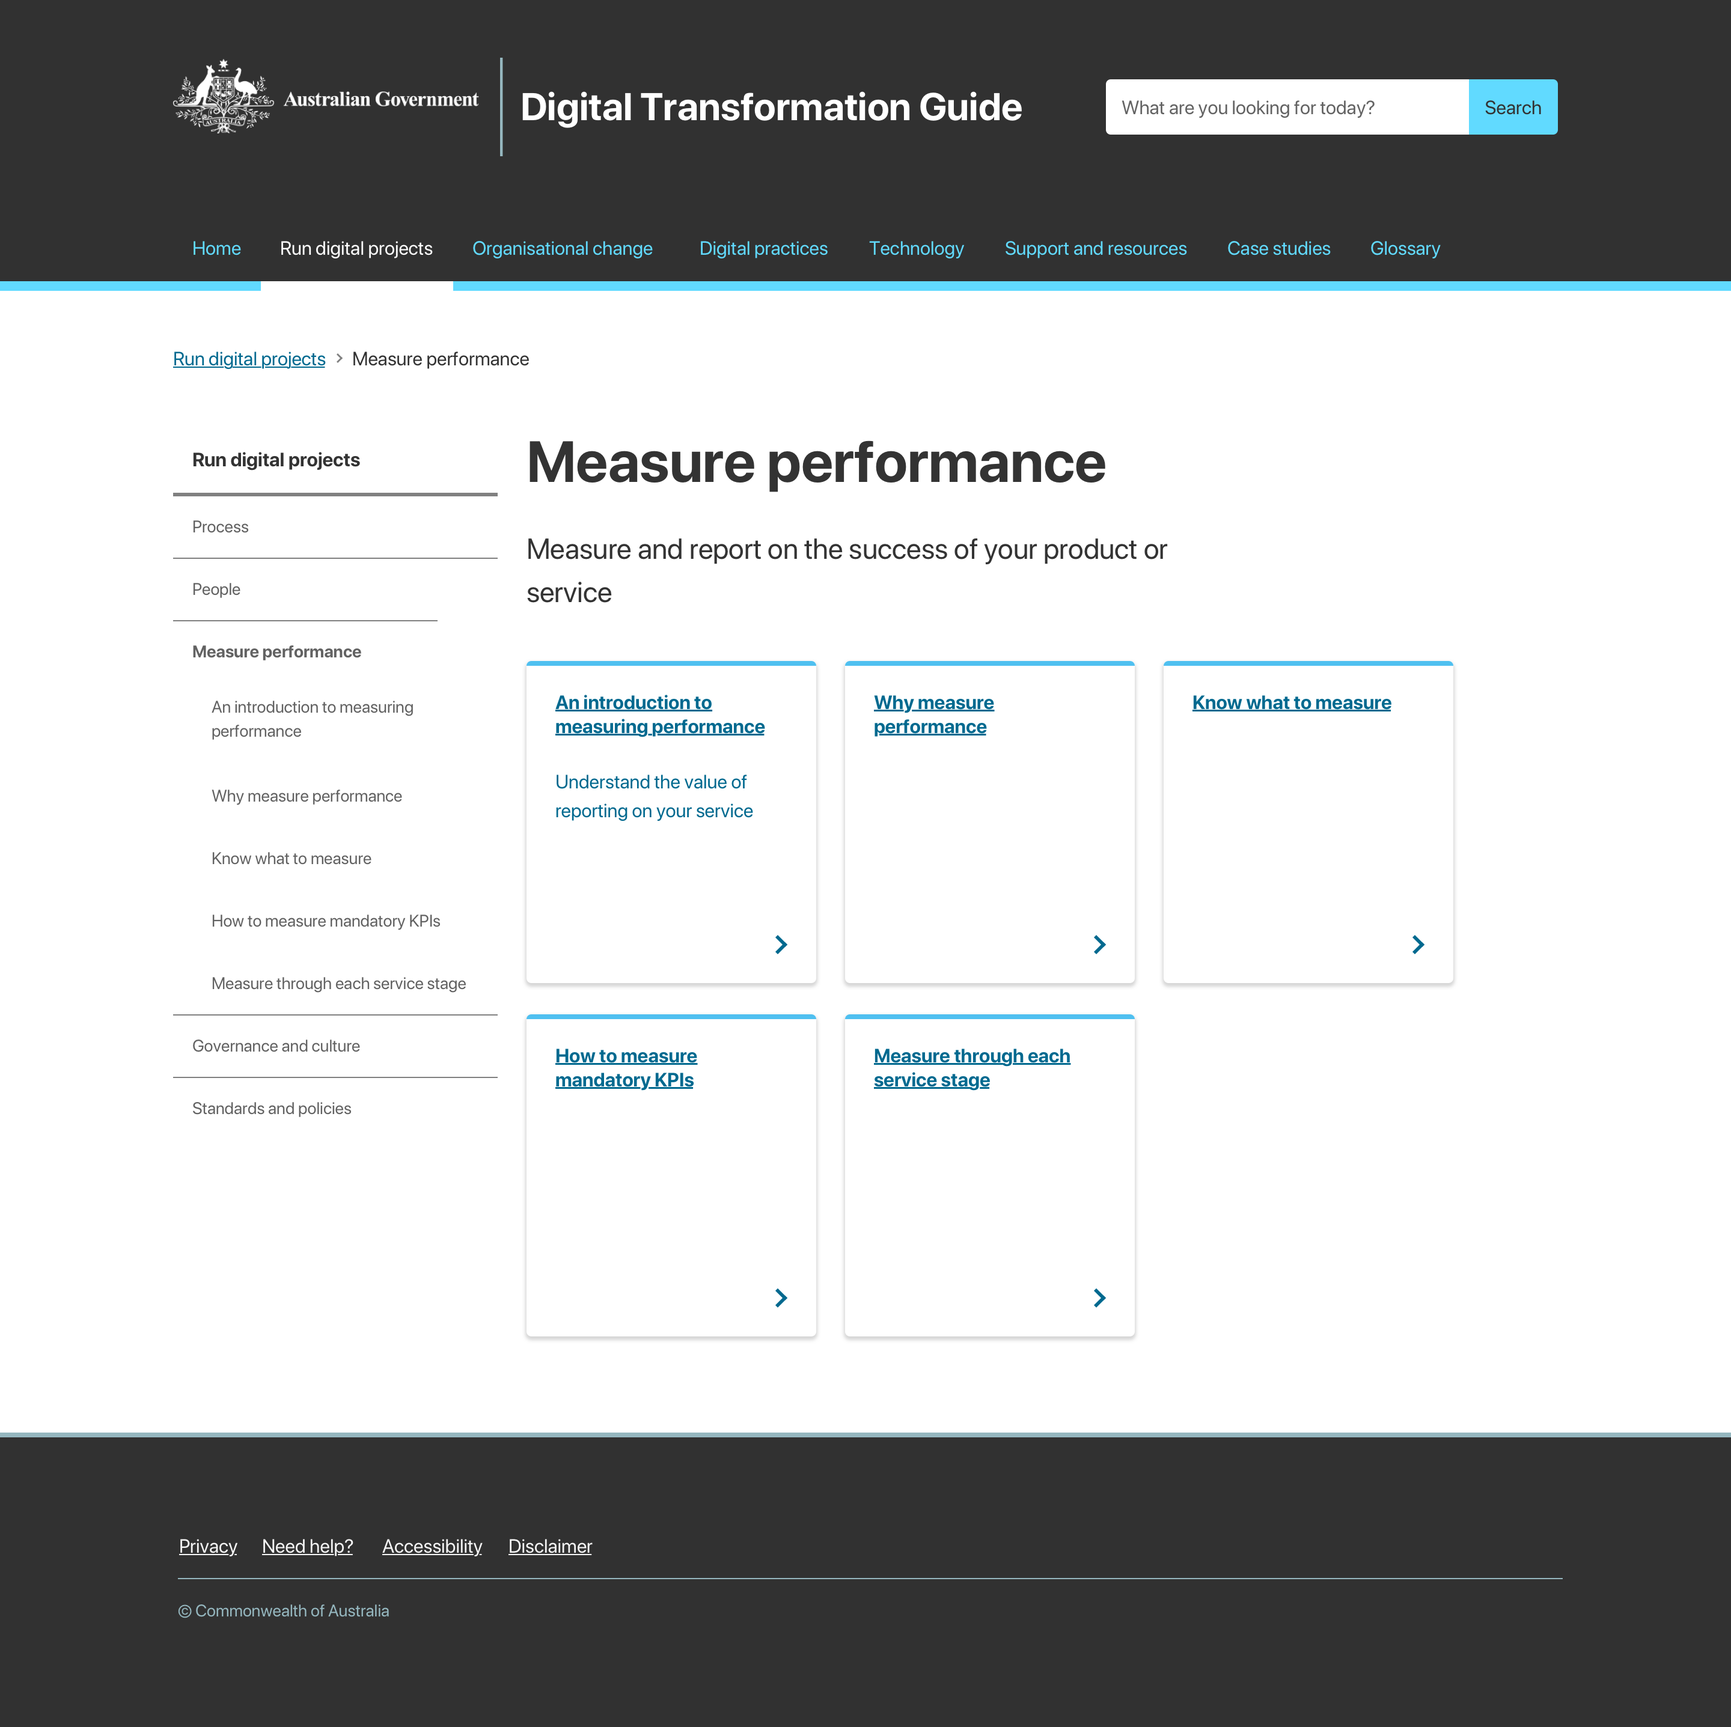
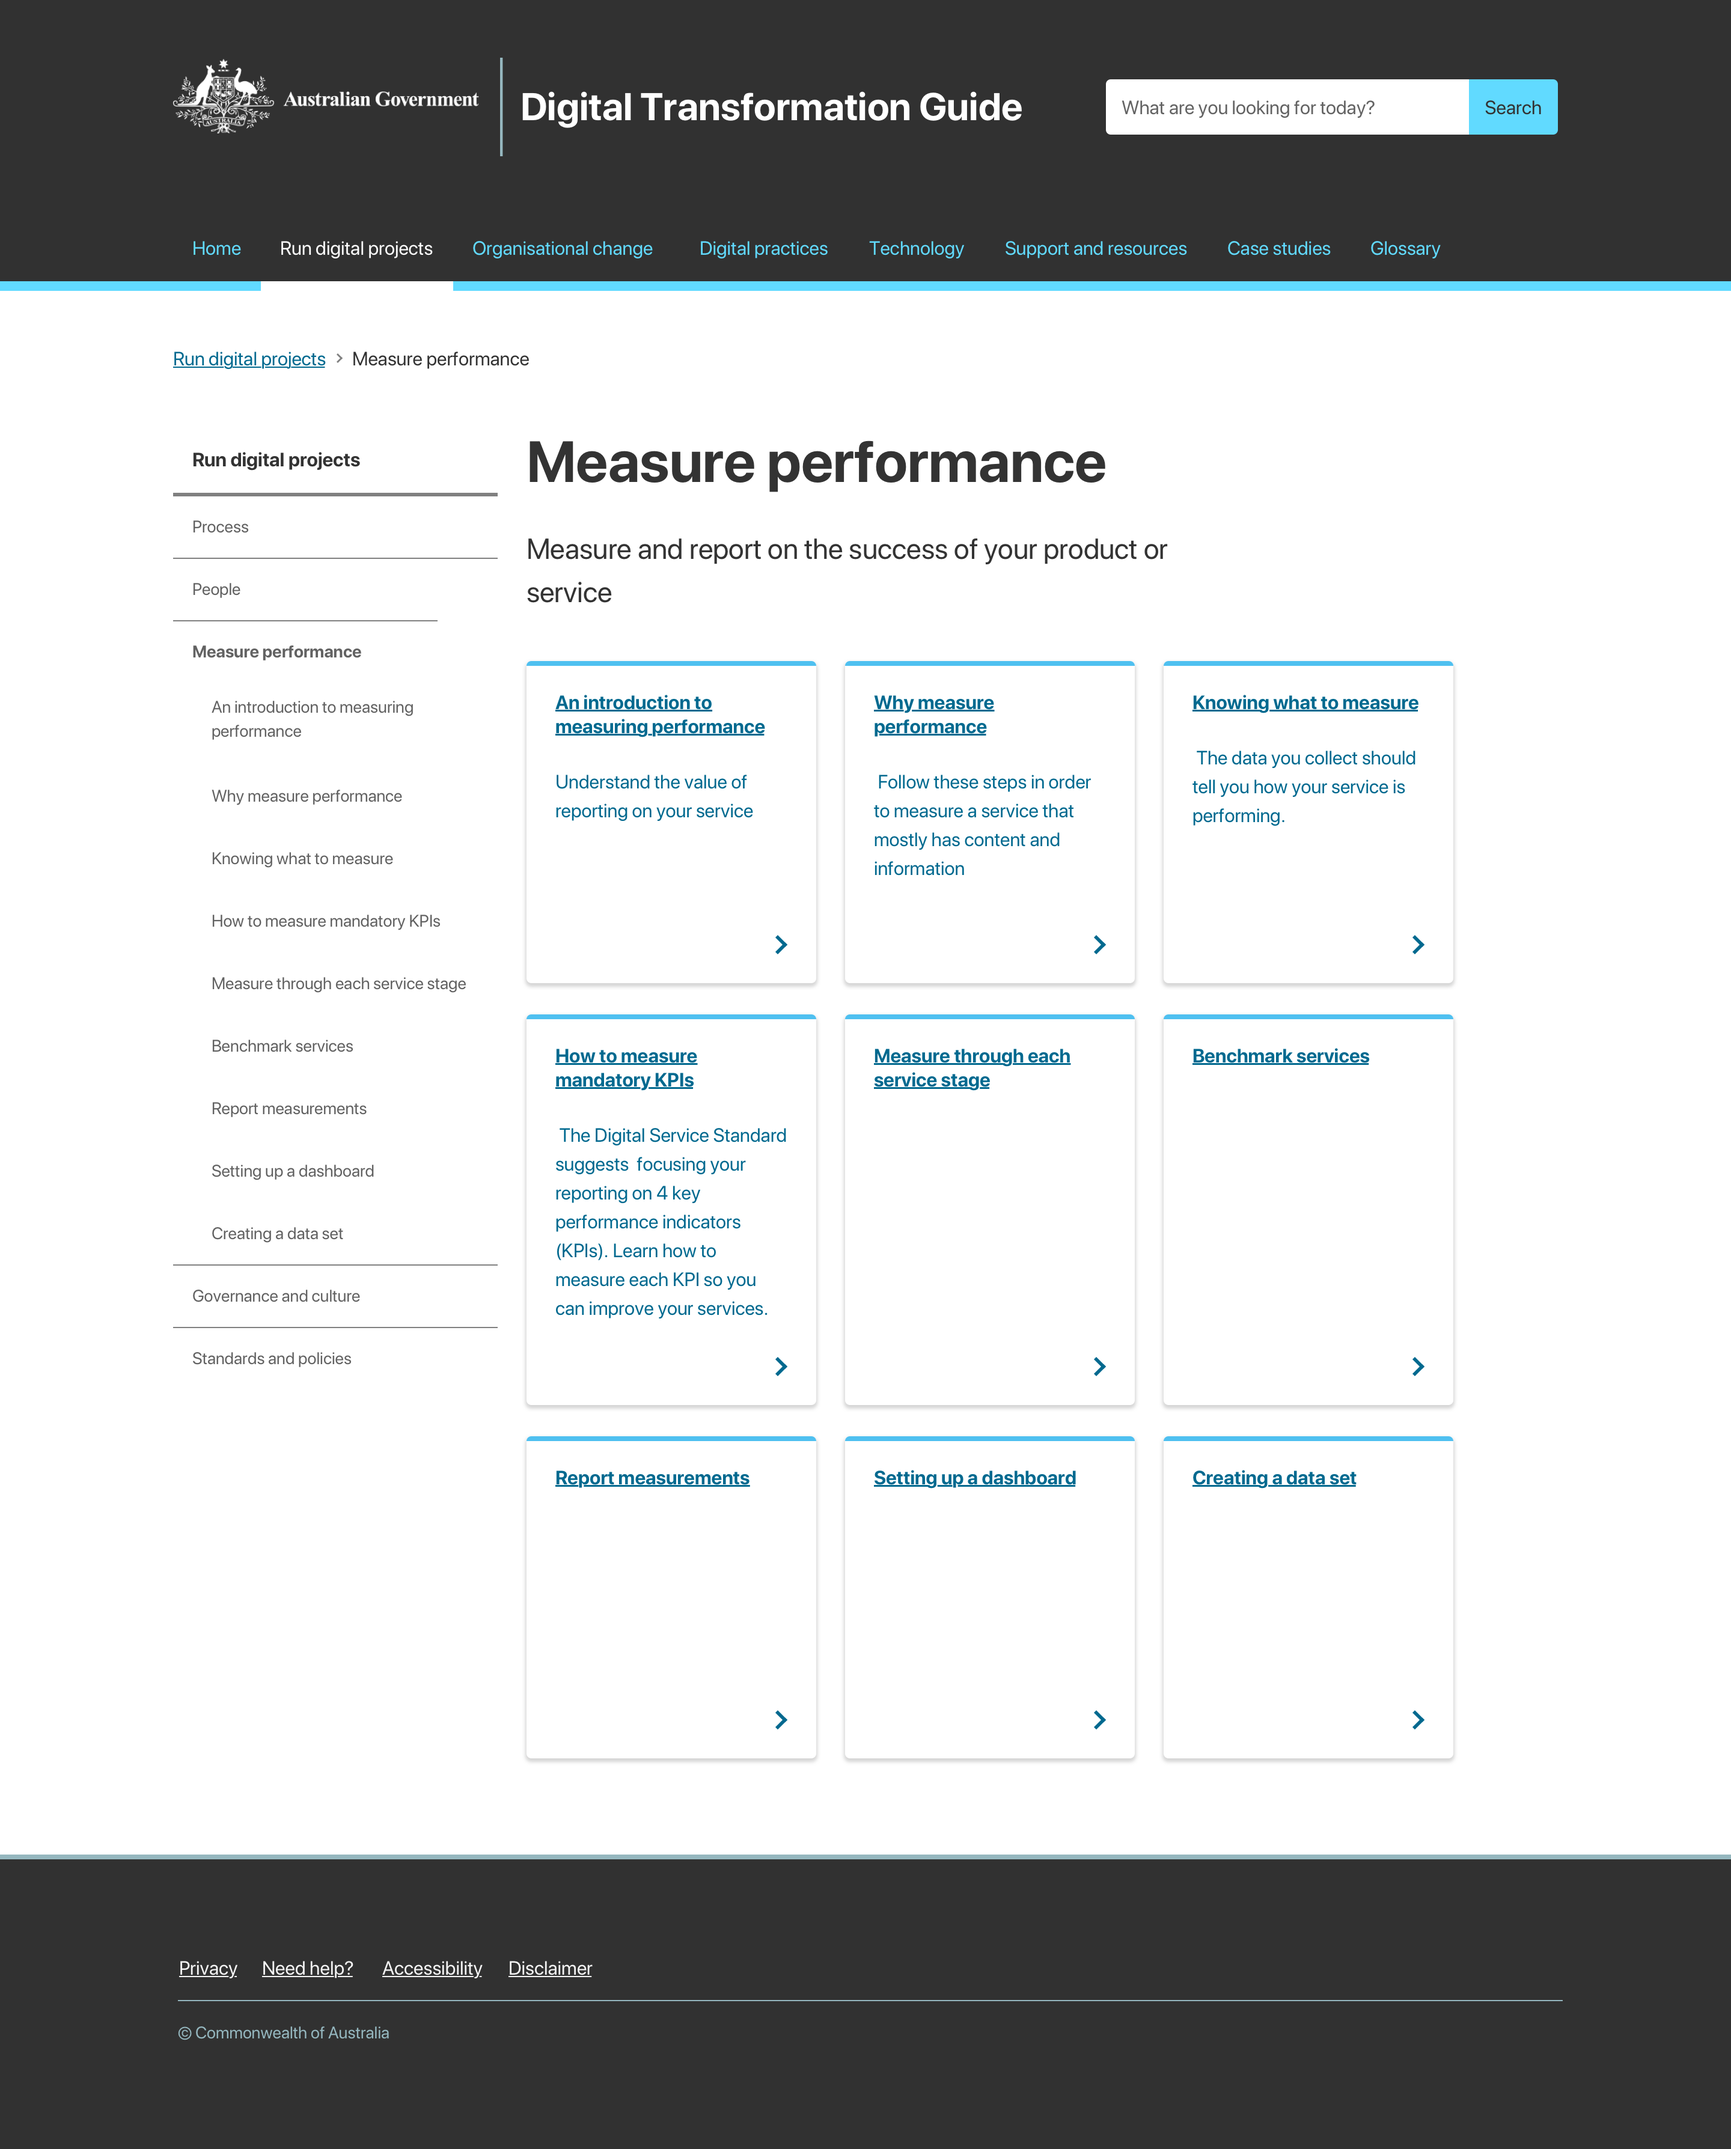
Added rest of Measure performance pages.

diff --git a/DTGL1_RunDigitalProjects.html b/DTGL1_RunDigitalProjects.html
@@ -15,6 +15,10 @@
           <area shape="rect" coords="813,663,914,693" href="DTGL4_Roles.html">
           <area shape="rect" coords="814,721,913,750" href="DTGL4_UpskillTeam.html">
           <area shape="rect" coords="814,695,953,719" href="DTGL4_GetTeamTogether.html">
+          <area shape="rect" coords="296,994,390,1029" href="DTGL2_MeasuringPerformance.html">
+          <area shape="rect" coords="298,895,561,923" href="DTGL4_IntroMeasurePerf.html">
+          <area shape="rect" coords="296,926,469,948" href="DTGL4_KnowingWhatMeasure.html">
+          <area shape="rect" coords="296,951,500,977" href="DTGL3_MeasureKPIs.html">
 </map>
 </body>
 </html>

diff --git a/DTGL4_KnowingWhatMeasure.html b/DTGL4_KnowingWhatMeasure.html
@@ -7,8 +7,9 @@
 </head>
 
 <body>
-		<img src="images/L4_Process_page_UpskillTeam_EventsSect_@2x.png" alt="" width="1280" usemap="#L1landing"/>
+		<img src="images/L4_Process_page_KnowWhatToMeasure_@2x.png" alt="" width="1280" usemap="#L1landing"/>
 		<map name="L1landing"><area shape="rect" coords="122,243,246,285" href="DTGL1_RunDigitalProjects.html"><area shape="rect" coords="128,159,192,215" href="index.html">
+		  <area shape="rect" coords="387,3697,606,3938" href="DTGL5_ValuePropWorkshop.html">
 		</map>
 </body>
 </html>

diff --git a/DTGL3_MeasureKPIs.html b/DTGL3_MeasureKPIs.html
@@ -7,8 +7,9 @@
 </head>
 
 <body>
-		<img src="images/L4_Process_page_UpskillTeam_EventsSect_@2x.png" alt="" width="1280" usemap="#L1landing"/>
+		<img src="images/L3_How_to_page_MeasureKPIs@2x.png" alt="" width="1280" usemap="#L1landing"/>
 		<map name="L1landing"><area shape="rect" coords="122,243,246,285" href="DTGL1_RunDigitalProjects.html"><area shape="rect" coords="128,159,192,215" href="index.html">
+		  <area shape="rect" coords="387,864,606,1134" href="DTGL4_CostPerTrans.html">
 		</map>
 </body>
 </html>

diff --git a/DTGL2_MeasuringPerformance.html b/DTGL2_MeasuringPerformance.html
@@ -15,6 +15,8 @@
     <map name="L2breadL1"><area shape="rect" coords="128,159,192,215" href="index.html">
       <area shape="rect" coords="122,243,246,285" href="DTGL1_RunDigitalProjects.html">
       <area shape="rect" coords="387,487,606,729" href="DTGL4_IntroMeasurePerf.html">
+      <area shape="rect" coords="860,488,1077,727" href="DTGL4_KnowingWhatMeasure.html">
+      <area shape="rect" coords="387,749,605,1041" href="DTGL3_MeasureKPIs.html">
     </map>
 
 </body>

diff --git a/DTGL4_IntroMeasurePerf.html b/DTGL4_IntroMeasurePerf.html
@@ -7,7 +7,7 @@
 </head>
 
 <body>
-		<img src="images/L4_Learn_about_page_IntroMeasurePerf_@2x.png" alt="" width="1280" usemap="#L1landing"/>
+		<img src="images/L4_Learn_about_page_IntroMeasurePerf_Events_@2x.png" alt="" width="1280" usemap="#L1landing"/>
 		<map name="L1landing"><area shape="rect" coords="122,243,246,285" href="DTGL1_RunDigitalProjects.html"><area shape="rect" coords="128,159,192,215" href="index.html">
 		</map>
 </body>

diff --git a/DTGL4_CostPerTrans.html b/DTGL4_CostPerTrans.html
@@ -7,7 +7,7 @@
 </head>
 
 <body>
-		<img src="images/L4_Process_page_UpskillTeam_EventsSect_@2x.png" alt="" width="1280" usemap="#L1landing"/>
+		<img src="images/L4_Process_page_CostPerTrans_@2x.png" alt="" width="1280" usemap="#L1landing"/>
 		<map name="L1landing"><area shape="rect" coords="122,243,246,285" href="DTGL1_RunDigitalProjects.html"><area shape="rect" coords="128,159,192,215" href="index.html">
 		</map>
 </body>

diff --git a/DTGL5_ValuePropWorkshop.html b/DTGL5_ValuePropWorkshop.html
@@ -7,7 +7,7 @@
 </head>
 
 <body>
-		<img src="images/L4_Process_page_UpskillTeam_EventsSect_@2x.png" alt="" width="1280" usemap="#L1landing"/>
+		<img src="images/L5_Method_page_ValueProposWS_@2x.png" alt="" width="1280" usemap="#L1landing"/>
 		<map name="L1landing"><area shape="rect" coords="122,243,246,285" href="DTGL1_RunDigitalProjects.html"><area shape="rect" coords="128,159,192,215" href="index.html">
 		</map>
 </body>
